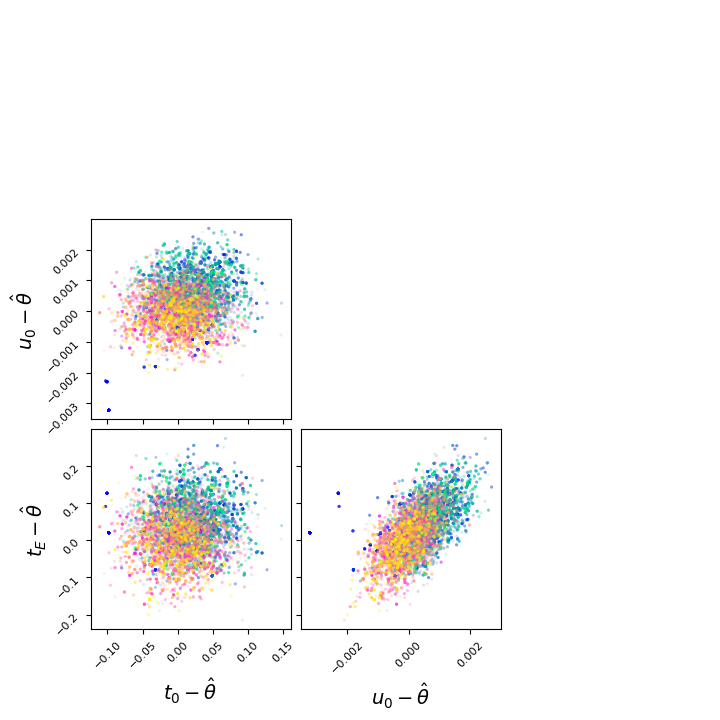
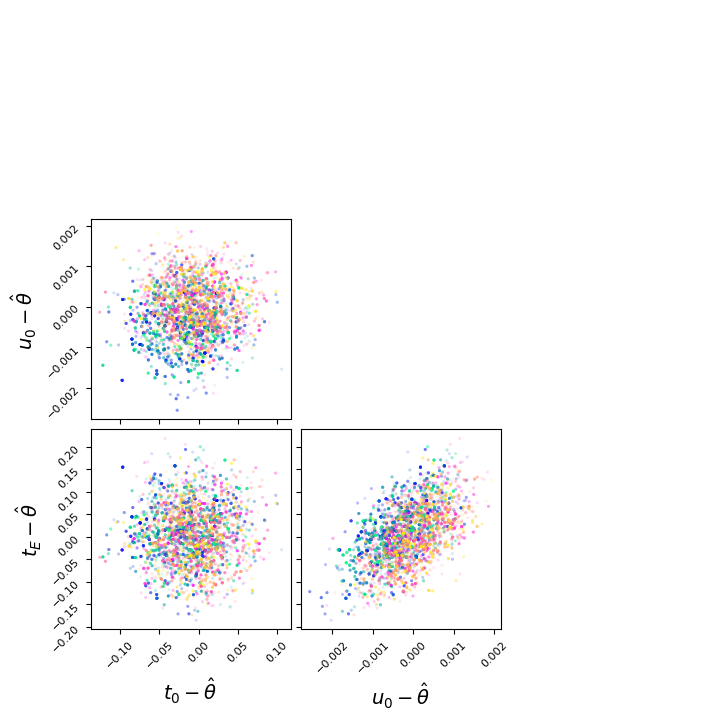
tuned suite

diff --git a/ReversibleJump.py b/ReversibleJump.py
@@ -43,9 +43,9 @@ from pathlib import Path
 suite_n = 0
 
 adaptive_warmup_iterations = 25 # mcmc steps without adaption
-adaptive_iterations = 1975 # mcmc steos with adaption
-warmup_loops = 3 # times to repeat mcmc optimisation of centers to try to get better estimate
-iterations = 20000 # rjmcmc steps
+adaptive_iterations = 2475 # mcmc steos with adaption
+warmup_loops = 2 # times to repeat mcmc optimisation of centers to try to get better estimate
+iterations = 10000 # rjmcmc steps
 
 n_epochs = 720
 epochs = np.linspace(0, 72, n_epochs + 1)[:n_epochs]
@@ -108,7 +108,7 @@ def Suite(suite_n):
     # synthetic event parameters
     model_parameter_suite = [ # in the order fs, t0, u0, tE, rho, q, s, alpha
         [36, 0.83, 31.5], # 0 single
-        [36, 0.83, 31.5, 0.005, 1.27, 210.8], # 1 weak binary
+        [36, 0.83, 31.5, 0.0032, 1.27, 210.8], # 1 weak binary
         [36, 0.1, 36, 0.8, 0.25, 123]] # 2 caustic crossing binary
     model_type_suite = [0, 1, 1] # model type associated with synethic event suite above
 
@@ -150,7 +150,7 @@ def Suite(suite_n):
 
         binary_center_suite = [ # in the order fs, t0, u0, tE, rho, q, s, alpha
         [36, 0.83, 31.5, 0.00001, 1.27, 210.8], # 0 single
-        [36, 0.83, 31.5, 0.005, 1.27, 210.8], # 1 weak binary
+        [36, 0.83, 31.5, 0.0032, 1.27, 210.8], # 1 weak binary
         [36, 0.1, 36, 0.8, 0.25, 123]] 
 
         binary_center = binary_center_suite[suite_n]
@@ -446,12 +446,12 @@ def Run(run_name, adaptive_warmup_iterations, adaptive_iterations, warmup_loops,
 
     # plot of model index trace
     plt.plot(np.linspace(truncated, iterations, num = iterations - truncated ), chain_ms[truncated:] + 1, linewidth = 0.25)
-    plt.title('RJMH Model Trace')
+    #plt.title('RJMH Model Trace')
     plt.xlabel('Iterations')
     plt.ylabel('Model Index')
     plt.locator_params(axis = "y", nbins = 2) # only two ticks
     plt.tight_layout()
-    #plt.savefig('Plots/M-Trace.png')
+    plt.savefig('Plots/M-Trace.png')
     plt.clf()
 
 

diff --git a/Functions.py b/Functions.py
@@ -667,6 +667,8 @@ def Synthetic_Light_Curve(true_theta, light_curve_type, n_epochs, signal_to_nois
     epochs = np.linspace(0, 72, n_epochs + 1)[:n_epochs]
     true_signal = model.magnification(epochs) #(model.magnification(epochs) - 1.0) * true_theta[0] + 1.0 # adjust for fs
 
+    np.random.seed(42)
+
     # simulate noise in gaussian errored flux space
     noise = np.random.normal(0.0, np.sqrt(true_signal) / signal_to_noise_baseline, n_epochs) 
     noise_sd = np.sqrt(true_signal) / signal_to_noise_baseline

diff --git a/PlotFunctions.py b/PlotFunctions.py
@@ -499,7 +499,7 @@ def Contour_Plot(n_dim, n_points, states, covariance, true, center, m, priors, d
         #ax.grid()
 
         # distribution plots
-        ax.hist(states[:, i], bins = 50, density = True)
+        ax.hist(states[:, i], bins = 25, density = True)
 
         mu = np.average(states[:, i])
         sd = np.std(states[:, i])
